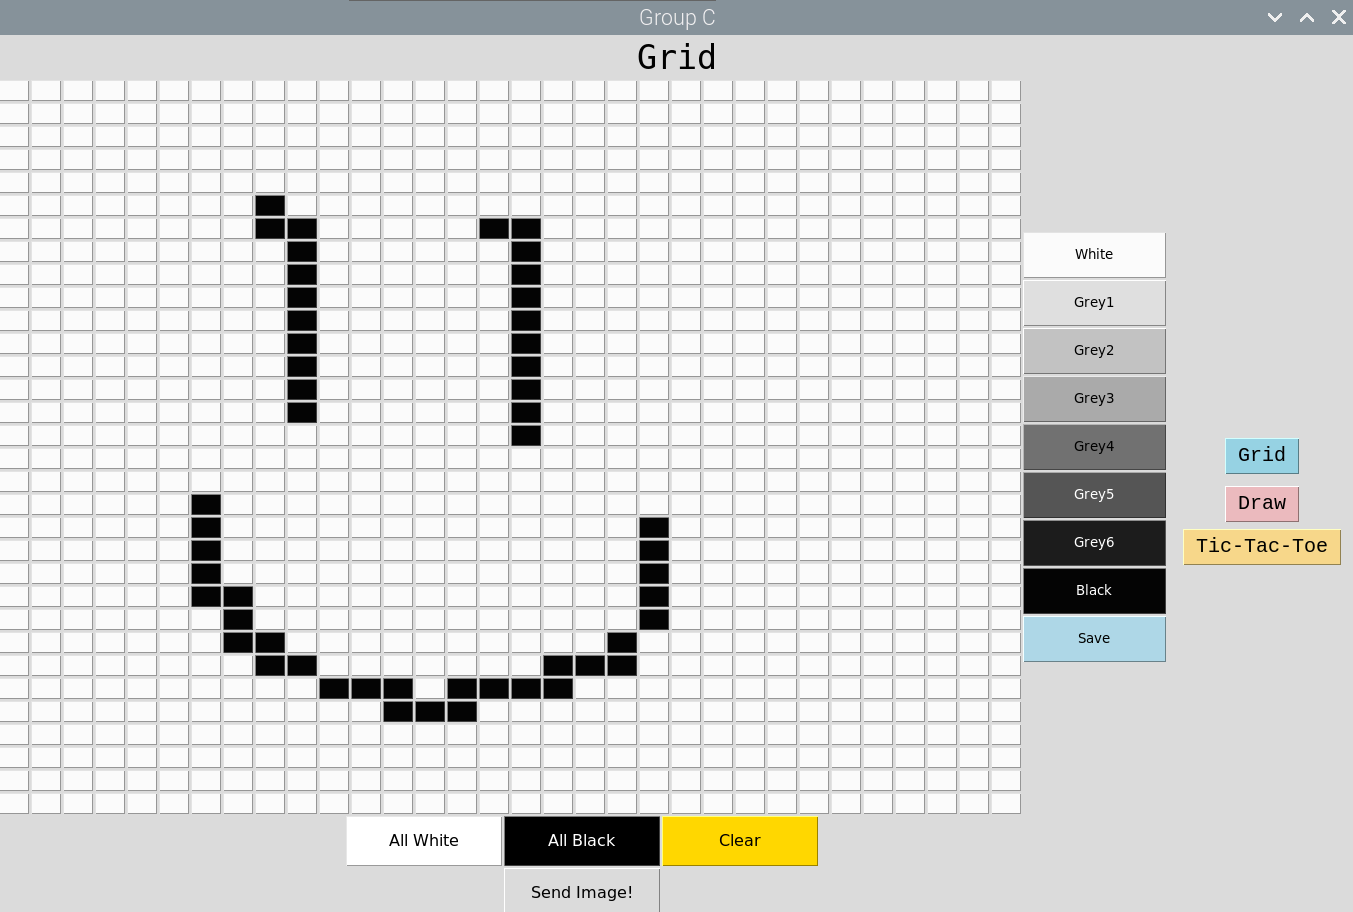
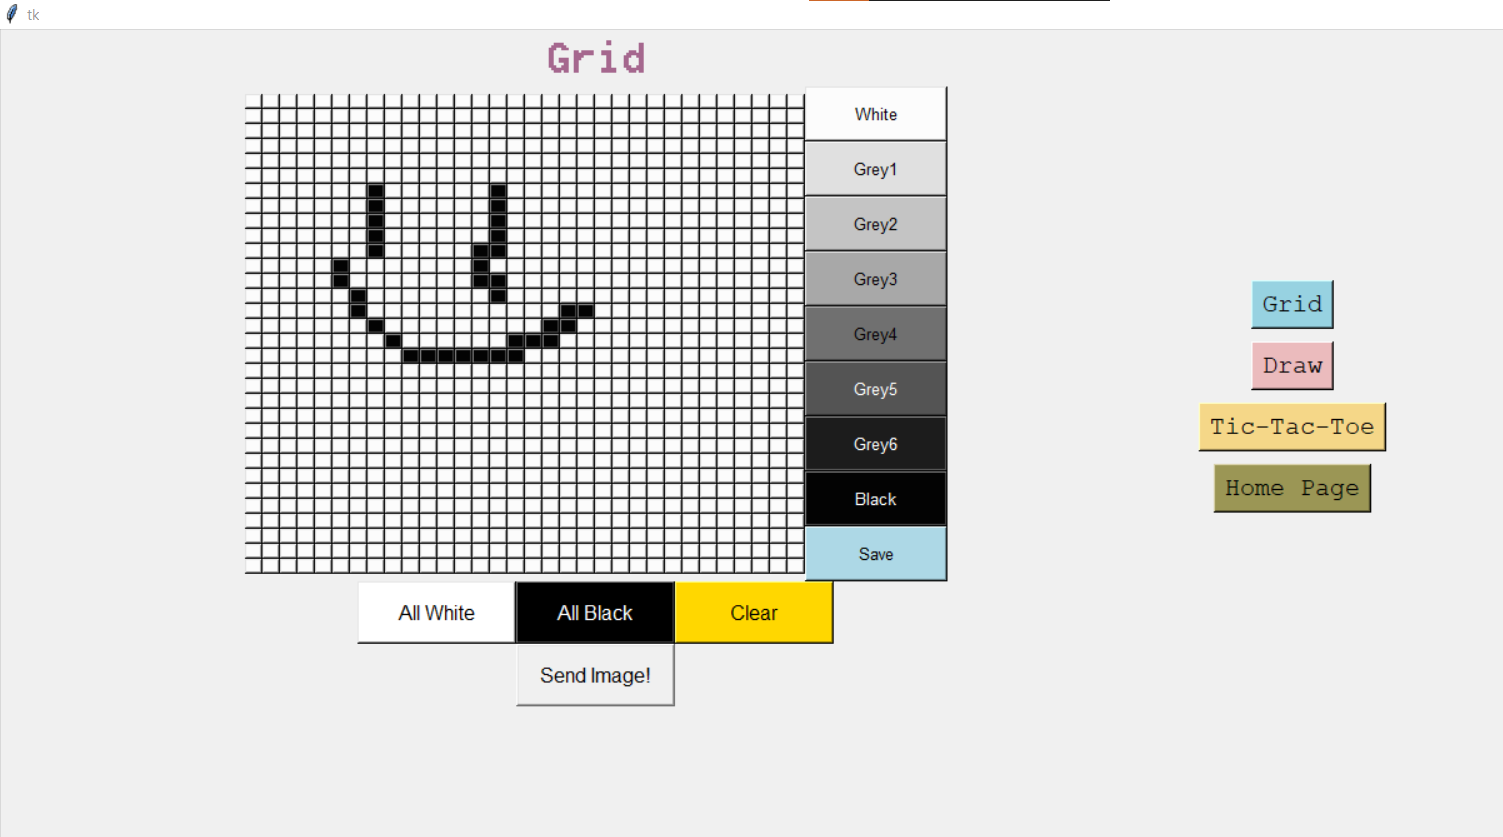
s

diff --git a/main.py b/main.py
@@ -588,7 +588,7 @@ send.grid(row=0, column=0)
 dframe = Frame(gndframe)
 dframe.grid(row=0, column=0)
 
-c = Canvas(dframe, width=800, height=800, bg='white')  
+c = Canvas(dframe, width=576, height=576, bg='white')  
 c.grid(row=0, column=0)
 
 c.bind('<Button-1>', get_x_and_y)

diff --git a/README.md b/README.md
@@ -256,8 +256,8 @@ The box that is used to hold the laser is 17cm x 12cm
 ![](images/pi.JPG)<br>
 
 Final look for the laser maze. 
-
-![](images/)<br>
+![](images/Maze.JPG)<br>
+*Image*
 
 ## Software for Laser Maze GUI
 ### Pi GPIO Library
@@ -276,7 +276,11 @@ sudo make install
 ![](images/pigpioLibrary.png)
 *Screenshot of Google Chrome webpage*
 
-Before starting the program to control the servos, you must activate the daemon from the terminal.
+All commands seen on the webpage must be entered into the terminal of Raspberry Pi. 
+
+<br>
+Before starting the program to control the servos, you must activate the daemon from the terminal using this line stated below. Which also can be found on the webpage.
+
 ```
 sudo pigpiod
 ```
@@ -301,6 +305,9 @@ sudo pigpiod
 *Screenshot of the GUI*
 
 ## Laser Maze GUI
+<br>
+Each arrow button represents a change in servo angle by 15 degrees in the respective direction. Hence, pressing the left or right arrow button under each description (Motor1, Motor2, Polariser) will turn the servo motor in that specific direction.
+
 ![](images/lasermazegui.png)
 *Screenshot of the GUI*
 

diff --git a/READMEcopy.md b/READMEcopy.md
@@ -37,7 +37,7 @@ once during our childhood which also adds relatability to our audience.
 <br>
 ## Project Backsory
 Behind these arcade games, there is always something to learn behind the scenes 
-and we wanna tell them how interesting and cool it is. How they are made better with inovation and how the may be relatively complex to build.
+and we wanna tell them how interesting and cool it is. How they are made better with innovation and how the may be relatively complex to build.
 
 <br>
 
@@ -111,6 +111,8 @@ The box that is used to hold the laser is 17cm x 12cm
 
 ![](images/pi.JPG)<br>
 
+![](images/Maze.JPG)<br>
+
 ## Software 
 1. PuTTy
 2. Advanced Port Scanner
@@ -174,7 +176,7 @@ sudo make install
 ![](images/pigpioLibrary.png)
 *Screenshot of Google Chrome webpage*
 
-Before starting the program to control the servos, you must activate the daemon from the terminal.
+Before starting the program to control the servos, you must activate the daemon from the terminal. 
 
 ```
 sudo pigpiod
